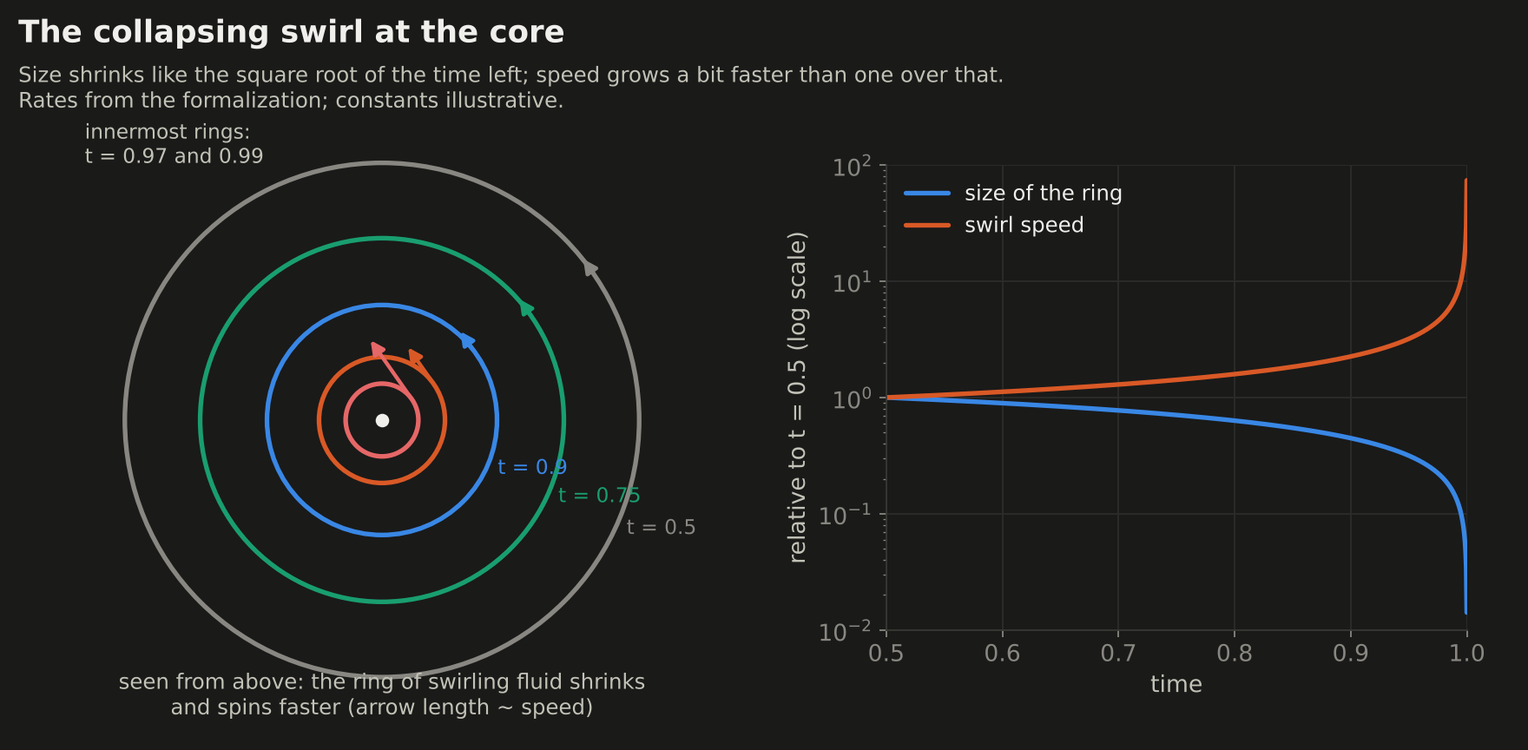
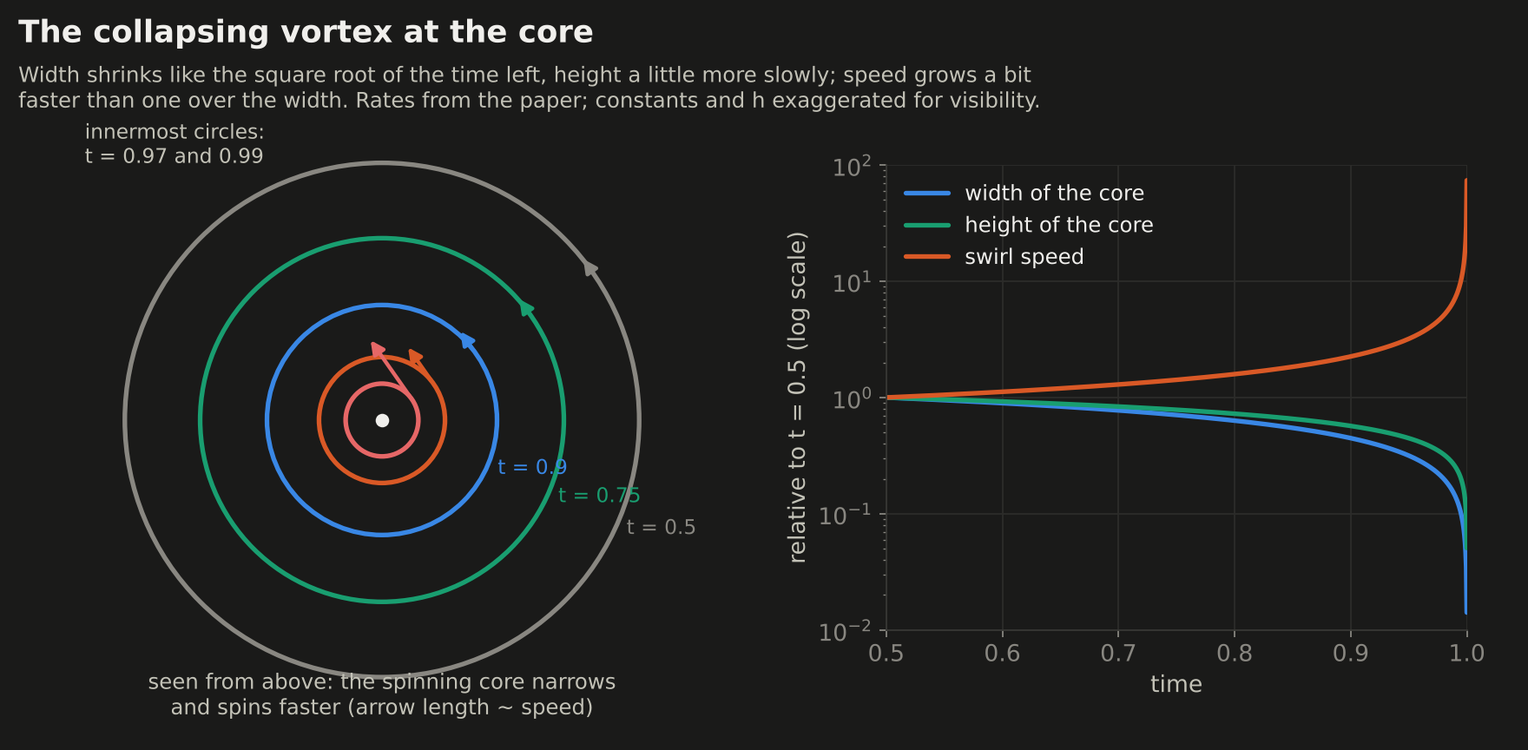
Check the Navier–Stokes explainer against OpenAI's paper
With the paper now available, Sections 5 and 6 follow its Theorem 1.1,
physical description and proof outline. The core is a slender collapsing
vortex column (width tau^1/2, height tau^(1/2-h)). Shear-amplified pulses
in the annulus supply the missing momentum flux. An infinite correction
cycle makes the residual flat. The force is that residual, supported
until time 2, and Lemma 10.5 gives uniqueness. The figures are updated,
and the note saying the paper had not been read is removed.

Claude-Session: https://claude.ai/code/session_01Kib8SqMQgjt9Z1WETs33PH

diff --git a/papers/2026/09/navier-stokes-blowup/code/make_figures.py b/papers/2026/09/navier-stokes-blowup/code/make_figures.py
@@ -4,12 +4,12 @@
     pip install -r requirements.txt
     python make_figures.py            # writes ../figures/*.png
 
-Two figures use the blowup law stated in the Lean formalization
-(NavierStokes/LocalAngularGrowth.lean, BaseAngularGrowth.lean): along a ray at
-distance sqrt(2 X tau) from the centre, tau = 1 - t, the swirl speed behaves
-like e0 * tau^-(1/2 + h) with 0 < h < 1/100. The constants e0, X and h below
-are illustrative choices inside that range. Every other figure is a labelled
-schematic.
+Two figures use the scales stated in the paper (Section 2.1 and Theorem 3.1(iv);
+also LocalAngularGrowth.lean in the formalization), with tau = 1 - t: the core's
+width shrinks like tau^(1/2), its height like tau^(1/2 - h), and its swirl
+speed grows like tau^-(1/2 + h), with 0 < h < 1/100. The constants and the
+value of h below are illustrative choices inside that range. Every other
+figure is a labelled schematic.
 """
 
 from __future__ import annotations
@@ -227,13 +227,14 @@ def fig_collapse():
                 ax.text(r * math.cos(math.radians(-25)) + 0.04, r * math.sin(math.radians(-25)), f"t = {t}",
                         fontsize=10.5, color=c, va="center")
         ax.plot([0], [0], "o", ms=6, color=th["ink"])
-        ax.text(-1.04, 0.9, "innermost rings:\nt = 0.97 and 0.99", fontsize=10.5, color=th["ink2"])
-        ax.text(0, -1.03, "seen from above: the ring of swirling fluid shrinks\nand spins faster (arrow length ~ speed)",
+        ax.text(-1.04, 0.9, "innermost circles:\nt = 0.97 and 0.99", fontsize=10.5, color=th["ink2"])
+        ax.text(0, -1.03, "seen from above: the spinning core narrows\nand spins faster (arrow length ~ speed)",
                 ha="center", fontsize=11, color=th["ink2"])
         a2 = fig.add_axes([0.58, 0.16, 0.38, 0.62])
         a2.set_axisbelow(True)
         ts = [0.5 + 0.4999 * i / 1000 for i in range(1001)]
-        a2.plot(ts, [math.sqrt(1 - t) / math.sqrt(0.5) for t in ts], color=th["s1"], label="size of the ring")
+        a2.plot(ts, [math.sqrt(1 - t) / math.sqrt(0.5) for t in ts], color=th["s1"], label="width of the core")
+        a2.plot(ts, [((1 - t) / 0.5) ** (0.5 - 0.15) for t in ts], color=th["s3"], label="height of the core")
         a2.plot(ts, [(1 - t) ** -SPEED_EXP * 0.5 ** SPEED_EXP for t in ts], color=th["s2"], label="swirl speed")
         a2.set_yscale("log")
         a2.set_xlim(0.5, 1.0)
@@ -241,9 +242,9 @@ def fig_collapse():
         a2.set_xlabel("time")
         a2.set_ylabel("relative to t = 0.5 (log scale)")
         a2.legend(loc="upper left", frameon=False, fontsize=11)
-        title(fig, "The collapsing swirl at the core",
-              "Size shrinks like the square root of the time left; speed grows a bit faster than one over that.\n"
-              "Rates from the formalization; constants illustrative.", th)
+        title(fig, "The collapsing vortex at the core",
+              "Width shrinks like the square root of the time left, height a little more slowly; speed grows a bit\n"
+              "faster than one over the width. Rates from the paper; constants and h exaggerated for visibility.", th)
         save(fig, "collapse", mode)
 
 
@@ -261,13 +262,14 @@ def fig_repair():
         ax.axis("off")
         ax.add_patch(Circle((0, 0), 0.45, fc=th["s2"], ec="none", alpha=0.25))
         ax.text(0, 0, "collapsing\ncore", ha="center", va="center", fontsize=11, color=th["ink"])
+        ax.text(0, 0.98, "annulus: where the pulses live", ha="center", fontsize=11, color=th["ink2"])
         for k, (freq, amp, c) in enumerate([(8, 0.05, th["s1"]), (20, 0.03, th["s3"]), (44, 0.018, th["s2"])]):
             r0 = 0.6 + 0.14 * k
             angs = [2 * math.pi * i / 1200 for i in range(1201)]
             xs = [(r0 + amp * math.sin(freq * a)) * math.cos(a) for a in angs]
             ys = [(r0 + amp * math.sin(freq * a)) * math.sin(a) for a in angs]
             ax.plot(xs, ys, color=c, lw=1.8)
-        ax.text(0, -1.06, "repair waves in the ring around the core:\neach round finer and weaker",
+        ax.text(0, -1.06, "pulses around complete rings: amplified by the\nshear, then damped; finer as time runs out",
                 ha="center", fontsize=11, color=th["ink2"])
         a2 = fig.add_axes([0.56, 0.16, 0.40, 0.62])
         a2.set_axisbelow(True)
@@ -280,8 +282,8 @@ def fig_repair():
         a2.set_ylabel("error left over (log scale)")
         a2.grid(axis="x", visible=False)
         title(fig, "Repairing the leftover error, round after round",
-              "Schematic. The collapsing pattern is not an exact solution: fine waves cancel what is left,\n"
-              "so that what the flow still lacks is smooth, and the force supplies exactly that.", th)
+              "Schematic. Pulses supply the missing momentum flux; each correction round shrinks what is left,\n"
+              "until the leftover is smooth through the singular time. The force is exactly that leftover.", th)
         save(fig, "repair", mode)
 
 

diff --git a/papers/2026/09/navier-stokes-blowup/README.md b/papers/2026/09/navier-stokes-blowup/README.md
@@ -1,17 +1,14 @@
 # Finite Time Blowup for Navier–Stokes
 
-> **In one paragraph.** The Navier–Stokes equations describe how water and air move. The Millennium Prize question asks whether their solutions always stay smooth, or whether a flow can tear itself apart in a finite time, with its speed shooting to infinity at a point. On 8 September 2026 OpenAI released a paper claiming the second answer: for every viscosity, a fluid that starts at rest, pushed by a carefully designed smooth force, spins faster and faster in a shrinking region until its speed has no limit at time 1, while its total energy stays finite. The official problem explicitly allows this kind of example (its options (C) and (D)), so if the proof is right, it settles the problem as written. It would not tell us whether flows left to themselves, with no force, can break down. OpenAI also published a computer-checked proof in Lean. A group of mathematicians has shown that the computer proof does not follow the written paper step by step, which makes the paper itself still a matter for human review.
+> **In one paragraph.** The Navier–Stokes equations describe how water and air move. The Millennium Prize question asks whether their solutions always stay smooth, or whether a flow can tear itself apart in a finite time, with its speed shooting to infinity at a point. On 8 September 2026 OpenAI released a paper claiming the second answer. For every viscosity, a fluid that starts at rest, pushed by a carefully designed smooth force, forms a vortex that narrows and spins ever faster until its speed has no limit at time 1, while its total energy stays finite. The official problem explicitly allows this kind of example (its options (C) and (D)), so if the proof is right, it settles the problem as written. It would not tell us whether flows left to themselves, with no force, can break down. OpenAI also published a computer-checked proof in Lean. A group of mathematicians has shown that the computer proof does not follow the written paper step by step, so the paper itself still needs human review.
 
 | | |
 |---|---|
-| **Paper** | [Finite Time Blowup for Navier–Stokes](https://cdn.openai.com/pdf/32d9f210-8b73-45e0-91bc-82a30aef8a9a/navier-stokes.pdf), OpenAI, 8 September 2026 |
-| **The claim, plainly** | For every viscosity there is a smooth push, applied for a while to a fluid at rest, that makes the fluid's speed infinite at one point at time 1, with finite energy, and the equations cannot be continued smoothly past that moment |
+| **Paper** | [Finite Time Blowup for Navier–Stokes](https://cdn.openai.com/pdf/32d9f210-8b73-45e0-91bc-82a30aef8a9a/navier-stokes.pdf), OpenAI, 8 September 2026 (166 pages) |
+| **The claim, plainly** | For every viscosity there is a smooth push, applied for a while to a fluid at rest, that makes the fluid's speed infinite at one point at time 1, with finite energy, so that the equations cannot be continued smoothly past that moment |
 | **Millennium problem** | [Navier–Stokes existence and smoothness](../../../../problems/navier-stokes.md): claims options (C) and (D) |
 | **Status** (2 November 2026) | Not peer reviewed. Lean formalization published by OpenAI; its relation to the written proof is [disputed](#8-the-dispute-the-computer-proof-is-not-the-paper). The Clay Institute says it is evaluating the claim |
 | **More** | [Lean formalization](https://github.com/openai/NavierStokesAndEuler) · [figures](figures/) · [figure code](code/make_figures.py) |
-
-> [!NOTE]
-> **How this page was written.** We could not obtain the written paper, which is hosted on a site this project's build environment cannot reach. The statement of the result below is taken from the published Lean formalization, which states it formally, and matches OpenAI's announcement. The outline in Section 6 is reconstructed from the formalization's documentation and from the manuscript sections it cites. The dispute in Section 8 is summarized from the critics' paper. We will check everything against the paper itself before this page is final.
 
 ## Contents
 
@@ -50,7 +47,7 @@ If a blowup can happen, the equations stop making sense at that point and moment
 - solutions can always be continued in a weak, "rough" sense (Leray);
 - any breakdown must be confined to a vanishingly small set of points (Caffarelli, Kohn and Nirenberg, 1982);
 - blowup has been proved for modified equations, for example Terence Tao's "averaged" Navier–Stokes in 2016;
-- blowup has been proved for the frictionless Euler equations in special settings, for example rough data (Elgindi, 2021) and fluid next to a wall (Chen and Hou, with computer-assisted proofs).
+- blowup has been proved for related equations, notably forced Euler equations without friction (Córdoba and Martínez-Zoroa) and Navier–Stokes with weakened friction (with Zheng). These built singularities by amplifying disturbances across smaller and smaller scales.
 
 For the real equations in three dimensions, the question has stayed open. In 2000 the Clay Mathematics Institute made it one of its seven Millennium Prize Problems, worth one million dollars.
 
@@ -72,79 +69,103 @@ The paper claims (C) and (D).
 
 ## 4. Why the force is not a cheat
 
-At first sight, allowing a force seems to make breakdown easy. Here is the cheat: draw any flow you like that blows up, plug it into the equations, and call whatever is left over "the force". The equations then hold by definition.
+At first sight, allowing a force seems to make breakdown easy. The paper says so itself: for any flow you like, you can *define* the force as whatever is left over when you plug the flow into the equations, and the equations then hold by construction.
 
-The catch is that the rules require the force itself to be **perfectly smooth everywhere, at every moment, including the moment of blowup**, and to fade away. With the cheat, the force needed to hold up a blowup almost always blows up too.
+The catch is that the rules require the force itself to be **perfectly smooth everywhere, at every moment, including the moment of blowup**, and to fade away. If you draw a blowup and solve for the force, the force almost always blows up too.
 
 <picture>
   <source media="(prefers-color-scheme: dark)" srcset="figures/force-dark.png">
   <img src="figures/force-light.png" alt="Two panels of schematic curves against time. Left, the cheat: fluid speed shoots up at time 1, and the force you would need shoots up even earlier. Right, the claim: fluid speed still shoots up at time 1, while the force is a smooth bump that rises and falls." width="100%">
 </picture>
 
-So the real challenge is to find a breakdown that a *smooth* push can sustain: a flow that tears itself apart while the force driving it stays calm. That is what the paper claims to construct.
+In the paper's words, "the challenge is to choose a flow that blows up while this residual remains smooth". The individual terms of the equation may each blow up. They must cancel so precisely that their sum, the force, stays smooth, along with all its derivatives, right through the singular moment.
 
 ## 5. The claim
 
-Stated in plain words from the formal version, for **every** positive viscosity:
+Theorem 1.1 of the paper, in plain words, for **every** positive viscosity:
 
-- the fluid **starts at rest**, and stays at rest for a while (until time 3/8);
-- an outside **force** acts only inside a bounded region of space and a bounded stretch of time after the start, and is smooth everywhere;
-- up to time 1 the flow is perfectly **smooth**, and its total **energy stays bounded**;
-- as time approaches 1, the **speed** somewhere in the fluid **grows without limit**;
-- **no smooth solution** with bounded energy, driven by the same force from the same rest state, can exist for all time.
+- the fluid **starts at rest**, and stays at rest for an initial stretch of time;
+- an outside **force** acts only inside a bounded region of space, from some time after the start until time 2 at the latest, and is smooth everywhere;
+- up to time 1 the flow is perfectly **smooth**, it stays inside a fixed bounded region, and its total **energy stays bounded**;
+- as time approaches 1, the **speed** near the centre **grows without limit**;
+- so **no smooth solution** with bounded energy, driven by the same force from the same rest state, can exist for all time.
 
-The paper proves the same in the wrap-around box. Together these are options (C) and (D).
+Because everything happens in a bounded region, the same example fits inside the wrap-around box (Corollary 10.6). Together these are options (C) and (D).
 
 <picture>
   <source media="(prefers-color-scheme: dark)" srcset="figures/blowup-dark.png">
   <img src="figures/blowup-light.png" alt="Two panels against time. Left: top speed on a log scale, rising slowly and then shooting up as time approaches 1. Right: total kinetic energy, rising after the start and then staying bounded up to time 1." width="100%">
 </picture>
 
-How can the speed be infinite while the energy is finite? The fast motion happens in a region that shrinks as time runs out. Its volume shrinks faster than the square of the speed grows, so the energy contained in it stays small.
+How can the speed be infinite while the energy is finite? The fast motion happens in a region that shrinks as time runs out, and its volume shrinks faster than the square of the speed grows. In the paper's numbers, the energy in the core falls like $(1-t)^{1/2-3h}$, which tends to zero (Section 6 explains $h$).
 
 ## 6. How the construction works
 
-*This section is reconstructed from the formalization; see the note at the top.*
+The paper builds the flow in three regions: a collapsing **core**, a surrounding ring-shaped zone called the **annulus**, and a calm **exterior**. Then it repairs the leftover errors and shows that no other solution can avoid the blowup.
 
-### Step 1: a collapsing swirl
+### Step 1: a collapsing vortex at the core
 
-At the heart of the construction is a **swirl**: fluid spinning around an axis, like water around a drain, but arranged symmetrically around the centre. As time approaches 1, the swirling ring **shrinks toward the centre** and **spins faster**. The formalization states the rates:
-- the ring's size shrinks like the square root of the time left, $\sqrt{1-t}$;
-- its swirl speed grows like $(1-t)^{-(1/2+h)}$, where $h$ is a fixed small number between 0 and $1/100$.
+Use the vertical line through the centre as an axis. Near it, fluid **spirals inward**. As it moves in, it **spins faster**, like a figure skater pulling in their arms: a parcel of fluid that keeps its angular momentum must spin faster at a smaller radius. Incompressibility forbids the incoming fluid from piling up near the axis, so it escapes **up and down along the axis**, which lets the inflow and spin-up continue. Friction keeps competing throughout, carrying angular momentum back outward.
 
-A flow that keeps the same shape while shrinking like this is called **self-similar**: each moment looks like a zoomed-in copy of the moment before. For the unforced equations, exactly self-similar blowups are known *not* to exist under natural conditions (Nečas, Růžička and Šverák, 1996; Tsai, 1998). The construction here is only approximately self-similar, and it has the force to help it.
+The core keeps the same shape while it shrinks: it is self-similar to leading order. Write $\tau = 1 - t$ for the time left. Then:
+
+- its **width** shrinks like $\tau^{1/2}$;
+- its **height** shrinks a little more slowly, like $\tau^{1/2-h}$, where $h$ is a fixed number between 0 and $1/100$. So the core becomes an ever more slender column;
+- its **spin and axial speeds** grow like $\tau^{-1/2-h}$, without limit.
 
 <picture>
   <source media="(prefers-color-scheme: dark)" srcset="figures/collapse-dark.png">
-  <img src="figures/collapse-light.png" alt="Left: concentric rings seen from above at times 0.5, 0.75, 0.9, 0.97 and 0.99, shrinking toward the centre, with arrows that grow longer as the rings shrink. Right: on a log scale against time, the size of the ring falls toward zero and the swirl speed rises without limit." width="100%">
+  <img src="figures/collapse-light.png" alt="Left: concentric circles seen from above at times 0.5, 0.75, 0.9, 0.97 and 0.99, shrinking toward the centre, with arrows that grow longer as they shrink. Right: on a log scale against time, the width and height of the core fall toward zero, the height more slowly, while the swirl speed rises without limit." width="100%">
 </picture>
 
-### Step 2: the pattern is not quite a solution
+### Step 2: the seam leaves an imbalance
 
-A drawn-up collapsing pattern does not satisfy the equations exactly. Plugging it in leaves an **error**, and near time 1 that error is far from smooth. If it were simply called "the force", we would be back to the cheat.
+Inside the core, the flow balances the equations to leading order. Far outside, the flow is a calm circular motion that slows with distance from the axis. Joining the two leaves an **imbalance in the annulus** between them. The background flow alone would need an outside force there that blows up as $t \to 1$, which is exactly the cheat the rules forbid.
 
-### Step 3: repair, round after round
+### Step 3: pulses that carry the missing momentum
 
-The construction removes the error in infinitely many **repair rounds**. Each round adds small, rapidly oscillating **waves** inside a thin ring around the collapsing core. Their combined effect cancels most of the remaining error. Each round's waves are finer, and the error left behind is much smaller. The rounds are arranged so that the leftover error becomes perfectly smooth, in all its derivatives, right through time 1. The force is defined as exactly what the final flow lacks, which is now that smooth leftover.
+So the paper makes **the fluid's own motion** supply the missing push. It adds **pulses**: small, rapidly oscillating ripples confined to the annulus, each wrapping around a complete ring, and lasting only a short time.
+
+- **Seeded, then amplified.** Each pulse is started by an *exponentially small* force. The shear of the background flow then makes it grow. In a spinning flow whose rotation falls off fast enough with radius, fluid nudged outward keeps a surplus of spin, and that surplus pushes it further out: a self-reinforcing instability.
+- **Then damped.** The same shear tilts the pulse's ripples, making them finer and finer across the radius, until friction wins and the pulse dies out. Each pulse grows and then decays.
+- **The payoff.** Although each ripple averages to zero, the *products* of its velocity components do not. A ripple moving outward with extra spin and inward with less spin carries angular momentum outward either way. This averaged **momentum flux** acts like an internal force on the background, and the pulses are tuned so that it cancels the imbalance from Step 2.
+- **Two families.** The imbalance has two components (spin momentum and vertical momentum). The paper uses two families of pulses whose fluxes point in different directions, mixed with positive weights. This works because the background was shaped so that the needed flux lies inside the "cone" those two directions span.
+- **Finer and finer.** As time runs out, the pulses are placed on ever smaller scales of space and time, keeping pace with the collapsing core.
 
 <picture>
   <source media="(prefers-color-scheme: dark)" srcset="figures/repair-dark.png">
-  <img src="figures/repair-light.png" alt="Left: a shaded collapsing core surrounded by three wavy rings, each with finer and smaller wiggles. Right: a bar chart on a log scale of the error left over after each repair round, falling extremely fast." width="100%">
+  <img src="figures/repair-light.png" alt="Left: a shaded collapsing core surrounded by three wavy rings in the annulus, each with finer and smaller wiggles. Right: a bar chart on a log scale of the error left over after each correction round, falling extremely fast." width="100%">
 </picture>
 
-Building flows out of layers of fine waves that cancel errors is the idea behind **convex integration**. It was invented by John Nash for geometry and later used by Tristan Buckmaster, Vlad Vicol and others to build unexpected solutions of fluid equations. The formalization's vocabulary (stress cones, covariance targets, wave pulses, a "diagonal" choice of stages) is that of this toolbox.
+Using oscillations to produce a prescribed average stress is a classic idea from **convex integration**, the technique Buckmaster and Vicol used to build unexpected solutions of Navier–Stokes. The new twist here is *dynamical amplification*. The pulses are not simply placed; they are grown by the flow itself. In this respect the method is closer in spirit to the forced-Euler singularities of Córdoba and Martínez-Zoroa.
 
-### Step 4: outside the core
+### Step 4: correct, and correct again
 
-Away from the collapsing core, the flow is gentle. Far out it simply spreads like heat, and the construction is cut off so that everything lives in a bounded region.
+The pulses fix the leading imbalance but create new, smaller errors: their interactions with each other and with the background, and the effects of switching them on and off. The paper removes these in an **infinite cycle of corrections**. Each round:
+- re-solves the pulse equations;
+- adjusts the pulse strengths;
+- corrects the average flow and the pressure;
+- restores five bookkeeping integrals.
 
-### Step 5: no other solution can escape
+Each round makes the error vanish faster at the singular point. The paper tracks the rate with an exponent that starts at $1/5$ and gains $1/10$ every round. The corrections are summed with cutoffs that shrink stage by stage. In the end, the leftover error and **all its derivatives vanish faster than any power** as the singular point is approached.
 
-Building one flow that blows up is not quite enough. The rules ask that **no** smooth, finite-energy solution with the same force and starting state exists for all time. The paper shows that any such solution would have to **coincide** with the constructed one up to time 1. This is a comparison, or uniqueness, argument: two solutions that start together, with one of them well behaved, can never drift apart. So any rival solution inherits the blowup and cannot be smooth forever. This is the part of the proof examined most closely in the dispute (Section 8).
+### Step 5: the calm exterior, and the force
 
-### Step 6: every viscosity at once
+Outside the annulus, the flow is a purely circular motion that spreads exactly like heat. It solves the equations with no force at all. The whole construction is then cut off smoothly in space, so everything lives in a bounded region.
 
-The construction is done once, at viscosity 1. Zooming space by the square root of the viscosity, $u_\nu(t,x)=\sqrt{\nu}\cdot u(t,x/\sqrt{\nu})$, turns it into a solution at any viscosity $\nu$, with the same blowup time.
+The **force is defined as the leftover**: whatever the final flow lacks to satisfy the equations exactly. Near the singular moment that leftover vanishes to every order, so the force extends smoothly through time 1. The paper continues it smoothly past time 1 and switches it off by time 2.
+
+### Step 6: no other solution can escape
+
+Building one flow that blows up is not quite enough. The rules ask that **no** smooth, finite-energy solution with the same force and starting state exists for all time. Lemma 10.5 of the paper shows that any such solution must **coincide** with the constructed one up to time 1. This is a uniqueness argument: two solutions that start together, with one of them well behaved, can never drift apart. So any rival solution inherits the blowup. This lemma is where the dispute's second example sits (Section 8).
+
+### Step 7: every viscosity at once
+
+Everything above is done at viscosity 1. Zooming space by the square root of the viscosity turns it into a solution at any viscosity $\nu$, with the same blowup time:
+
+```math
+u_\nu(x,t) = \sqrt{\nu}\; u\big(x/\sqrt{\nu},\, t\big), \qquad p_\nu(x,t) = \nu\, p\big(x/\sqrt{\nu},\, t\big), \qquad f_\nu(x,t) = \sqrt{\nu}\; f\big(x/\sqrt{\nu},\, t\big).
+```
 
 ## 7. Checking it by computer
 
@@ -160,8 +181,8 @@ If that check holds, the *theorem* is true, whatever the merits of the written p
 On 6 October 2026 A. Bastounis, F. Circelli and A. C. Hansen posted [*Navier–Stokes lost in translation*](https://arxiv.org/abs/2610.08144). Their point is narrow, and important.
 
 **What they claim.** According to the authors, the Lean proof was produced by translating the paper into Lean with AI and accepting the translation once it compiled. A translation that compiles can quietly prove *different* steps from the paper. They give two concrete examples:
-- **An inverse estimate** (the paper's Lemma 8.6, equation 8.19). The paper claims a bound that costs four extra derivatives. The Lean version proves a weaker bound costing five, by summing a different series.
-- **A pressure bound in the uniqueness argument** (equation 10.19, Lemma 10.5). Both the bound and the way it is proved differ: different inequalities, a different route through Sobolev embedding, and an extra continuity step.
+- **An inverse estimate** (the paper's Lemma 8.6, equation 8.19, in the mean-flow corrections). The paper claims a bound that costs four extra derivatives. The Lean version proves a weaker bound costing five, by summing a different series.
+- **A pressure bound in the uniqueness argument** (equation 10.19, in the proof of Lemma 10.5). Both the bound and the way it is proved differ: different inequalities, a different route through Sobolev embedding, and an extra continuity step.
 
 **What they do not claim.** They do not say the written proof is wrong, or that the theorem is false. Their conclusion is that a compiling Lean proof certifies the *theorem*, not the *paper*: the paper's own arguments still need ordinary peer review.
 
@@ -186,17 +207,22 @@ So the two questions come apart:
 - **mean that real water or air blows up.** The equations are a model; at tiny scales real fluids are made of molecules, and the force here is specially engineered;
 - **change weather forecasting or engineering.** It is an existence proof about an idealized model, not a new simulation method.
 
+OpenAI released a companion paper the same day, [*Finite time blowup for the Euler equation*](https://cdn.openai.com/pdf/315b36cd-ec98-4023-8342-93345194ece1/euler.pdf). It claims a blowup *without any force* for the friction-free Euler equations. That paper is not covered here.
+
 ## Words used on this page
 
 | Here | In the paper |
 |---|---|
-| speed infinite at a point | blowup; the velocity is unbounded as $t \to 1$ |
+| speed infinite at a point | blowup; $\lVert u(t) \rVert_{L^\infty}$ is unbounded as $t \to 1$ |
 | smooth | infinitely differentiable, $C^\infty$ |
 | wrap-around box | the torus $\mathbb{R}^3/\mathbb{Z}^3$ |
 | friction strength | viscosity $\nu$ |
-| collapsing swirl | an axisymmetric, approximately self-similar profile with swirl |
-| repair rounds, waves | correction stages, wave packets (convex-integration style) |
-| no other solution can escape | weak–strong uniqueness, comparison |
-| error | the Navier–Stokes residual |
+| time left | $\tau = 1 - t$ |
+| collapsing vortex | the concentrating axisymmetric background, self-similar to leading order |
+| annulus, exterior | the pulse annulus; the heat exterior |
+| pulses | oscillatory wave packets, two families |
+| momentum flux | stress; averaged quadratic products (covariances) of the pulse velocities |
+| leftover, error | the momentum residual $R(u,p)$; the force is $f = R(u,p)$ |
+| no other solution can escape | the uniqueness Lemma 10.5 |
 
-Figures: [`code/make_figures.py`](code/make_figures.py). The blowup rates come from `LocalAngularGrowth.lean` and `BaseAngularGrowth.lean` in the formalization; everything else drawn is schematic.
+Figures: [`code/make_figures.py`](code/make_figures.py). The scales of the core come from Section 2.1 and Theorem 3.1 of the paper; everything else drawn is schematic.
